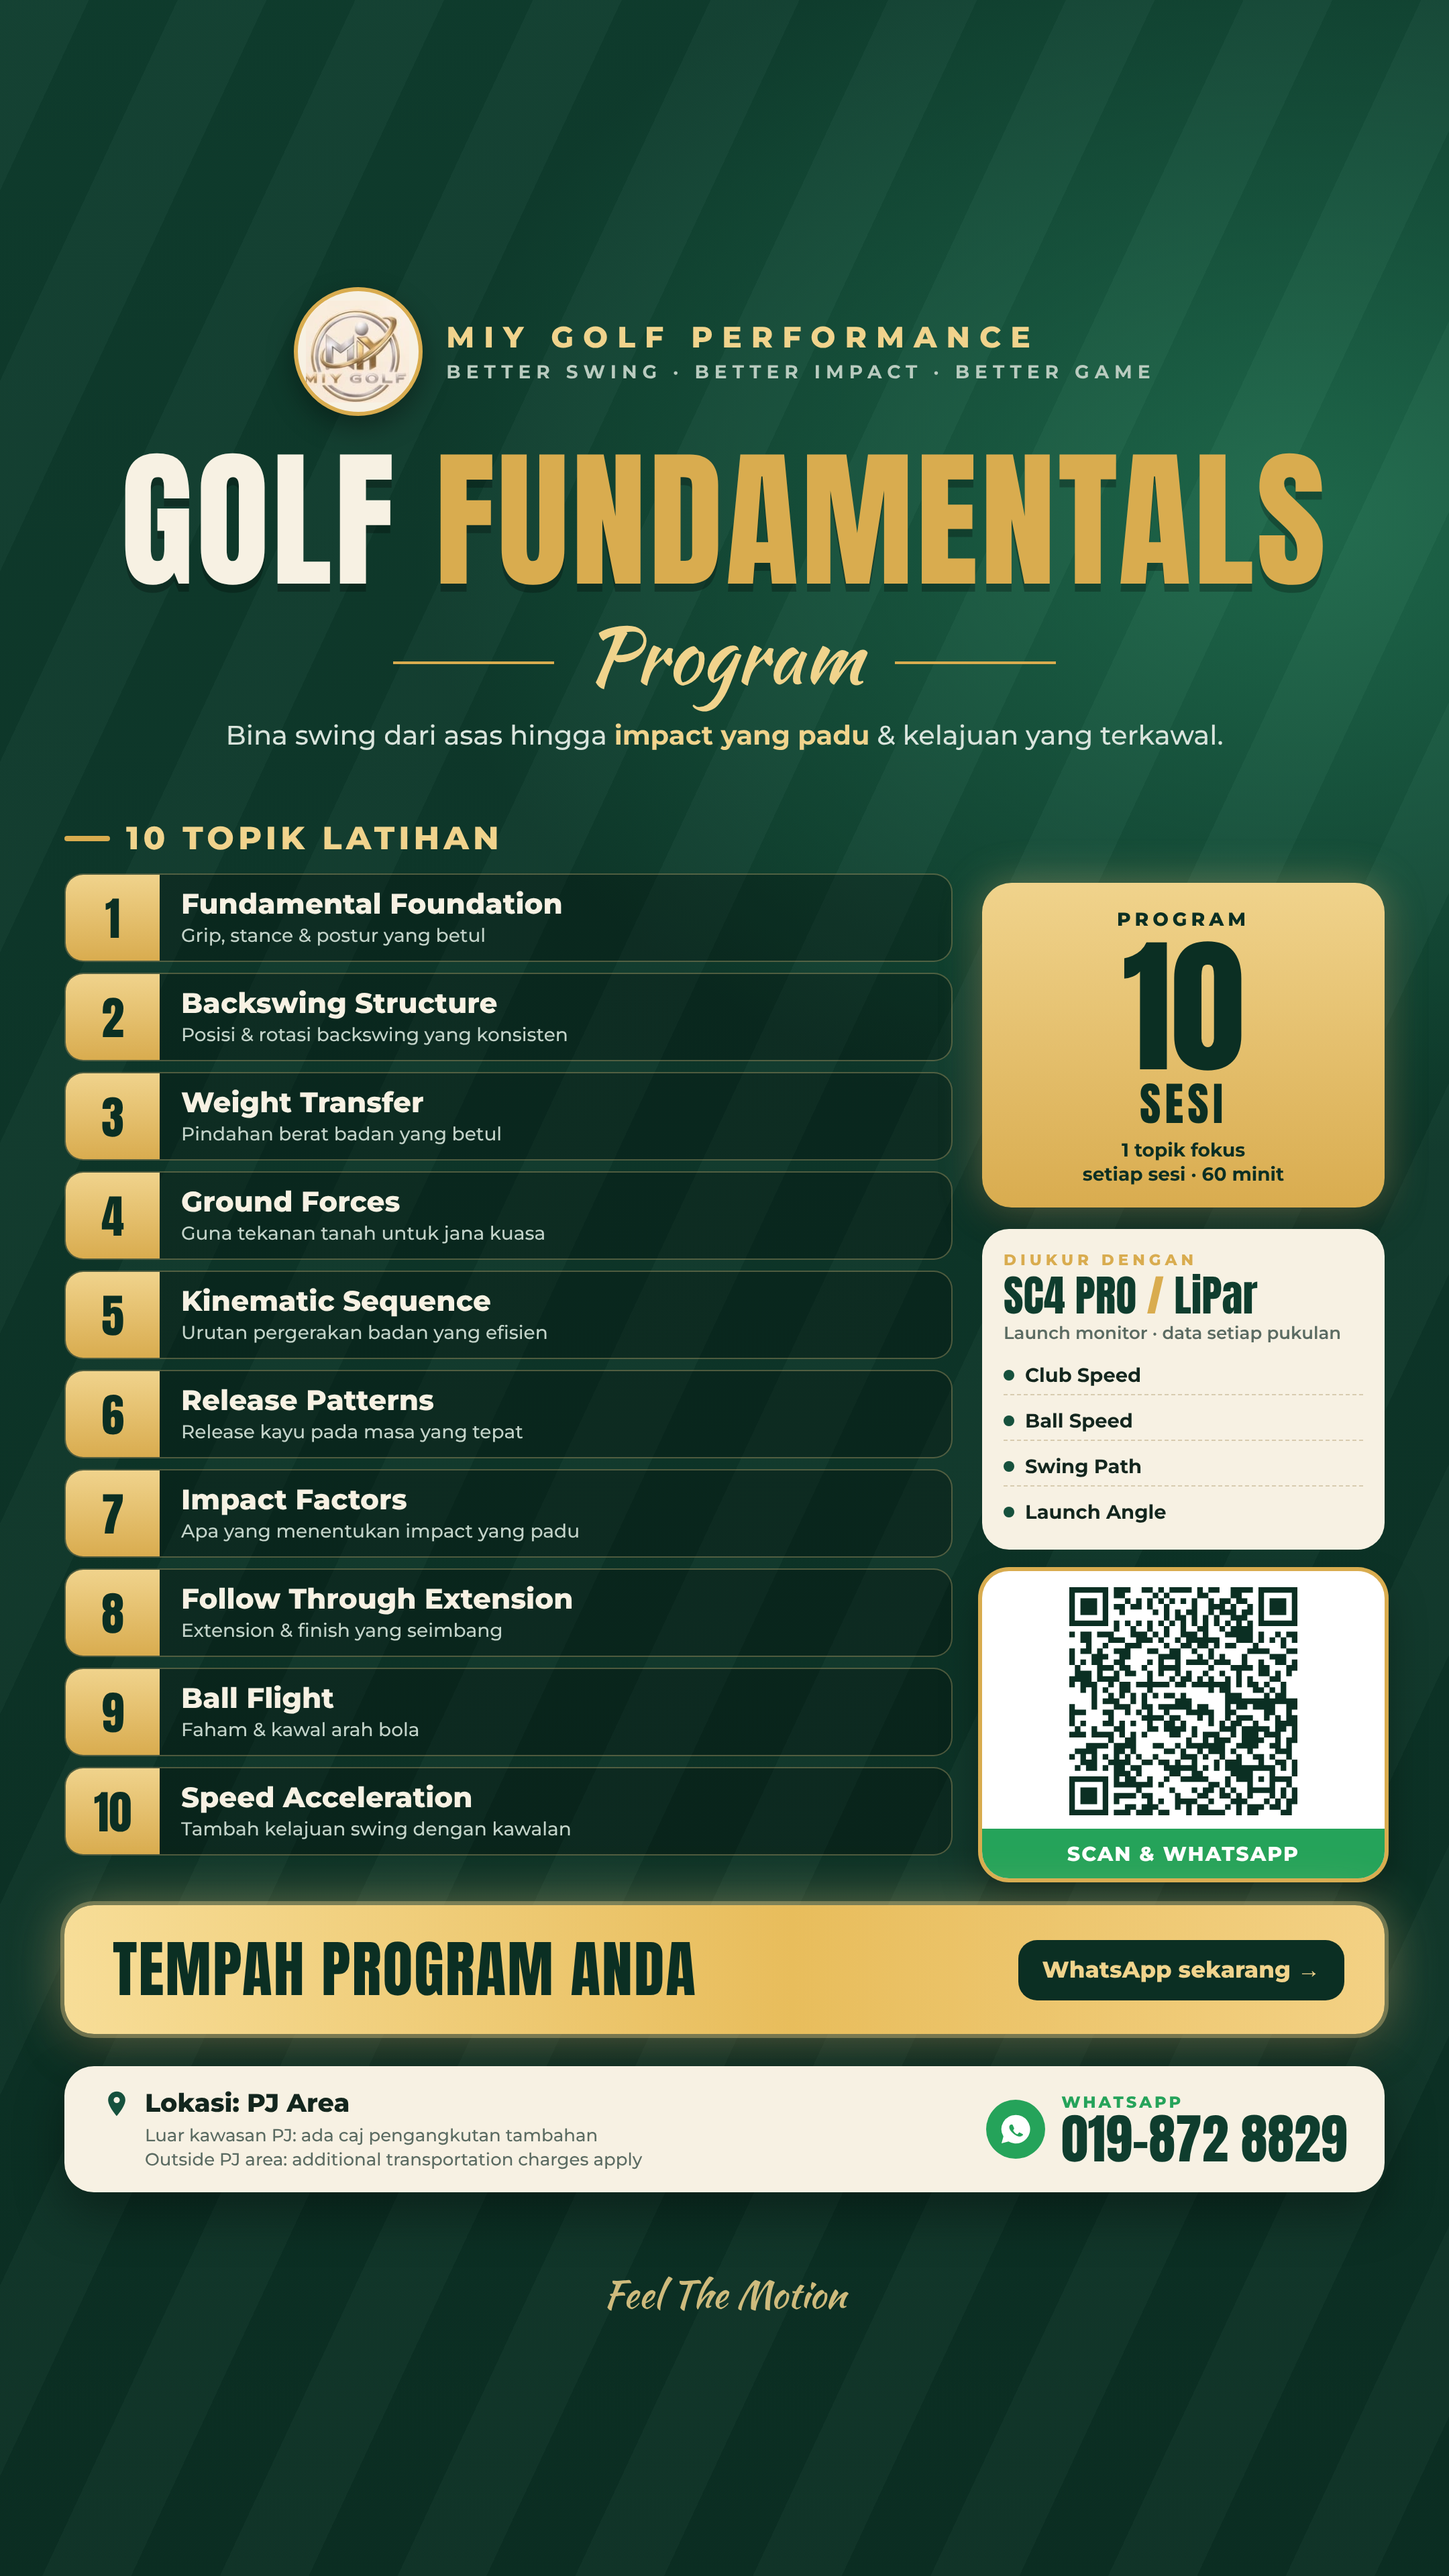
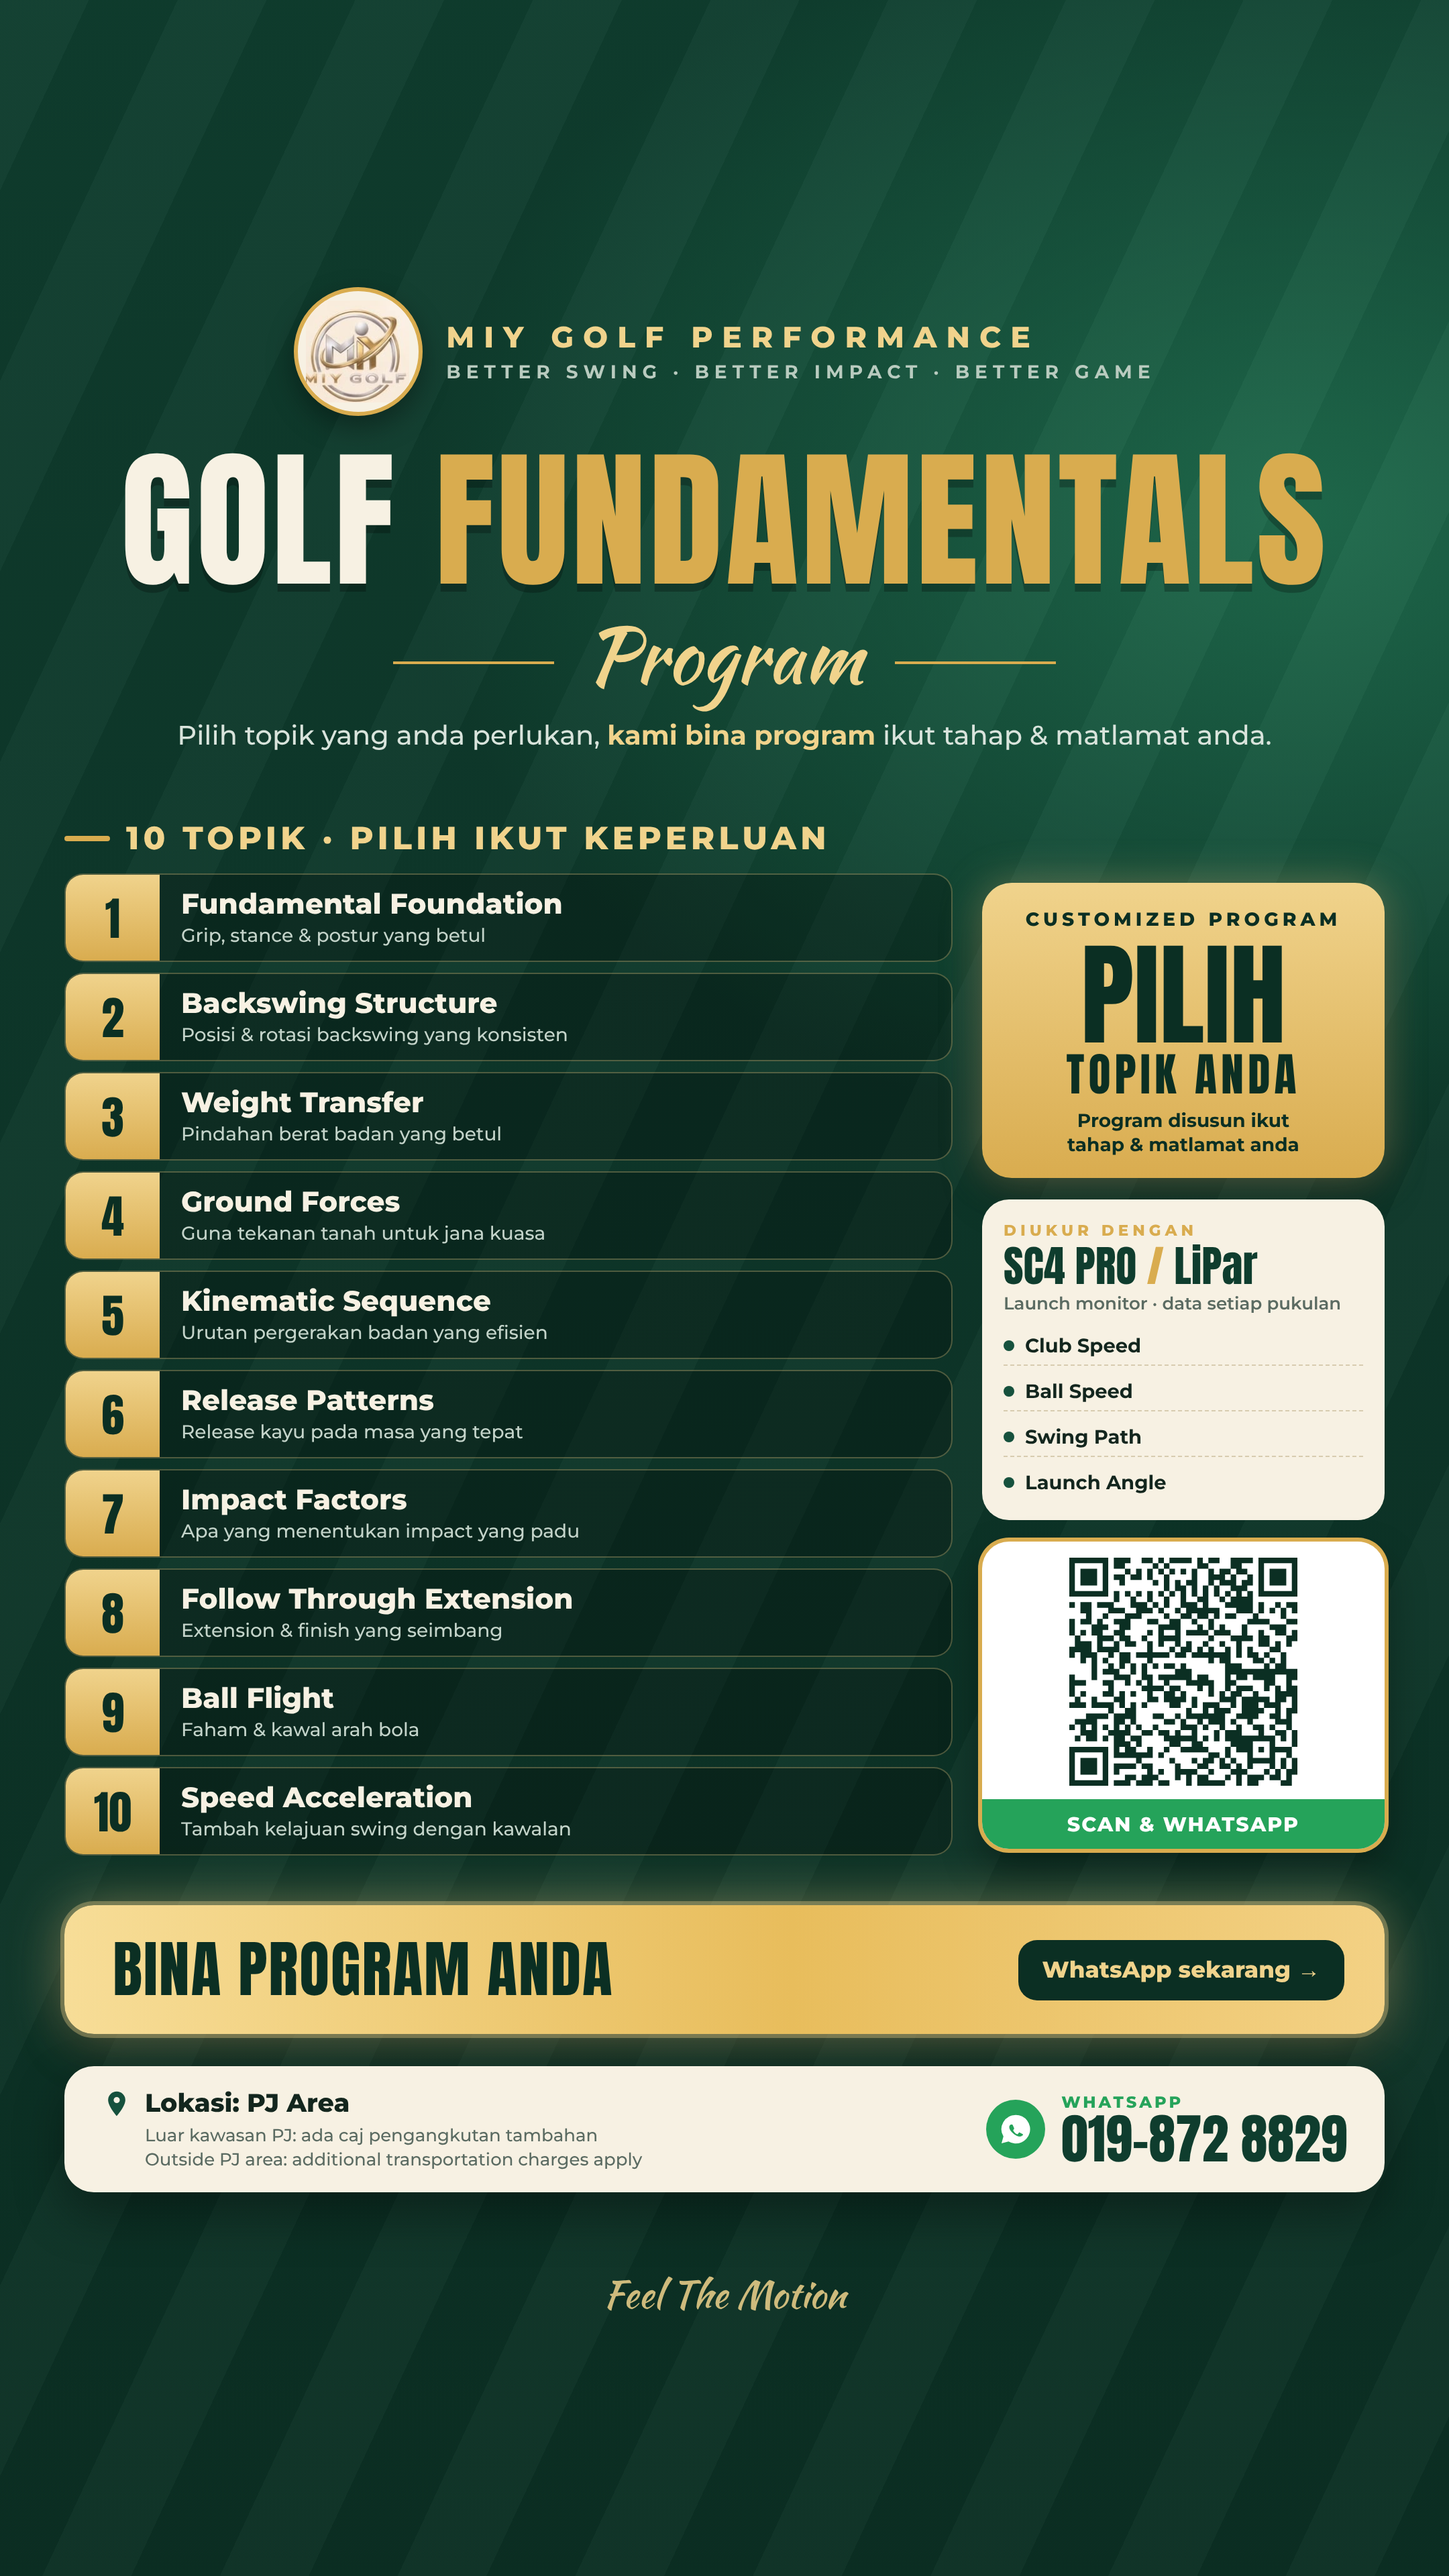
Program story: replace 10-session badge with customizable program messaging
Topics are now presented as options for a customized program; badge
reads Pilih Topik Anda, headline subtext and CTA updated to match.

Claude-Session: https://claude.ai/code/session_014MDgBZbMwKcGgxmE4k56x7

Changed region(s): [[0.6514, 0.3438, 0.9616, 0.75], [0.1241, 0.2812, 0.8685, 0.3438], [0.062, 0.75, 0.4963, 0.7812]]

diff --git a/poster/golf-program-story.html b/poster/golf-program-story.html
@@ -53,6 +53,7 @@
   .sessions .k{font-weight:800;font-size:14px;letter-spacing:3px}
   .sessions b{display:block;font-family:'Anton',sans-serif;font-weight:400;font-size:110px;line-height:1;margin-top:2px}
   .sessions .u{font-family:'Anton',sans-serif;font-size:34px;letter-spacing:3px;line-height:1}
+  .sessions b.w{font-size:84px;margin-top:6px}
   .sessions p{font-weight:700;font-size:14px;margin-top:8px;line-height:1.3}
   .tech{background:var(--cream);color:var(--ink);border-radius:20px;padding:16px 16px 14px}
   .tech .k{font-weight:800;font-size:11.5px;letter-spacing:3px;color:var(--gold)}
@@ -99,12 +100,12 @@
     </div>
     <h1>GOLF <span>FUNDAMENTALS</span></h1>
     <div class="script">Program</div>
-    <p class="sub">Bina swing dari asas hingga <b>impact yang padu</b> &amp; kelajuan yang terkawal.</p>
+    <p class="sub">Pilih topik yang anda perlukan, <b>kami bina program</b> ikut tahap &amp; matlamat anda.</p>
   </div>
 
   <div class="body">
     <div>
-      <div class="label">10 Topik Latihan</div>
+      <div class="label">10 Topik · Pilih Ikut Keperluan</div>
       <ol class="topics">
         <li><span class="n">1</span><div class="t"><b>Fundamental Foundation</b><span>Grip, stance &amp; postur yang betul</span></div></li>
         <li><span class="n">2</span><div class="t"><b>Backswing Structure</b><span>Posisi &amp; rotasi backswing yang konsisten</span></div></li>
@@ -121,10 +122,10 @@
 
     <div class="side">
       <div class="sessions">
-        <div class="k">PROGRAM</div>
-        <b>10</b>
-        <div class="u">SESI</div>
-        <p>1 topik fokus<br>setiap sesi · 60 minit</p>
+        <div class="k">CUSTOMIZED PROGRAM</div>
+        <b class="w">PILIH</b>
+        <div class="u">TOPIK ANDA</div>
+        <p>Program disusun ikut<br>tahap &amp; matlamat anda</p>
       </div>
       <div class="tech">
         <div class="k">DIUKUR DENGAN</div>
@@ -136,7 +137,7 @@
     </div>
   </div>
 
-  <a class="cta" href="https://wa.me/60198728829?text=Hi%20Coach%2C%20saya%20nak%20tempah%20Golf%20Fundamentals%20Program"><b>TEMPAH PROGRAM ANDA</b><span>WhatsApp sekarang →</span></a>
+  <a class="cta" href="https://wa.me/60198728829?text=Hi%20Coach%2C%20saya%20nak%20customize%20program%20golf"><b>BINA PROGRAM ANDA</b><span>WhatsApp sekarang →</span></a>
 
   <div class="footer">
     <div class="loc"><b><svg viewBox="0 0 24 24" fill="currentColor"><path d="M12 2a7 7 0 0 0-7 7c0 5.2 7 13 7 13s7-7.8 7-13a7 7 0 0 0-7-7zm0 9.5A2.5 2.5 0 1 1 12 6.5a2.5 2.5 0 0 1 0 5z"/></svg>Lokasi: PJ Area</b>
